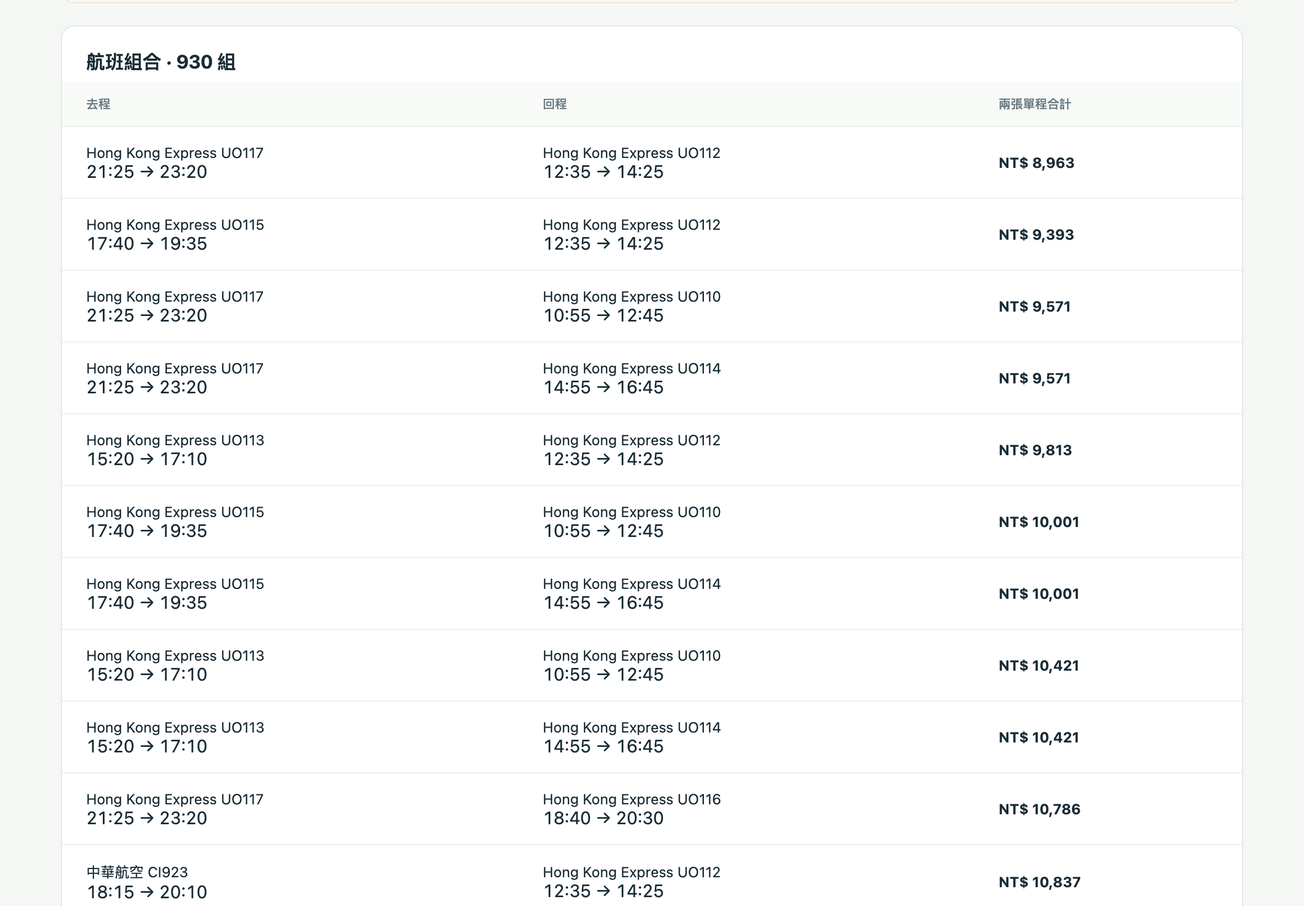
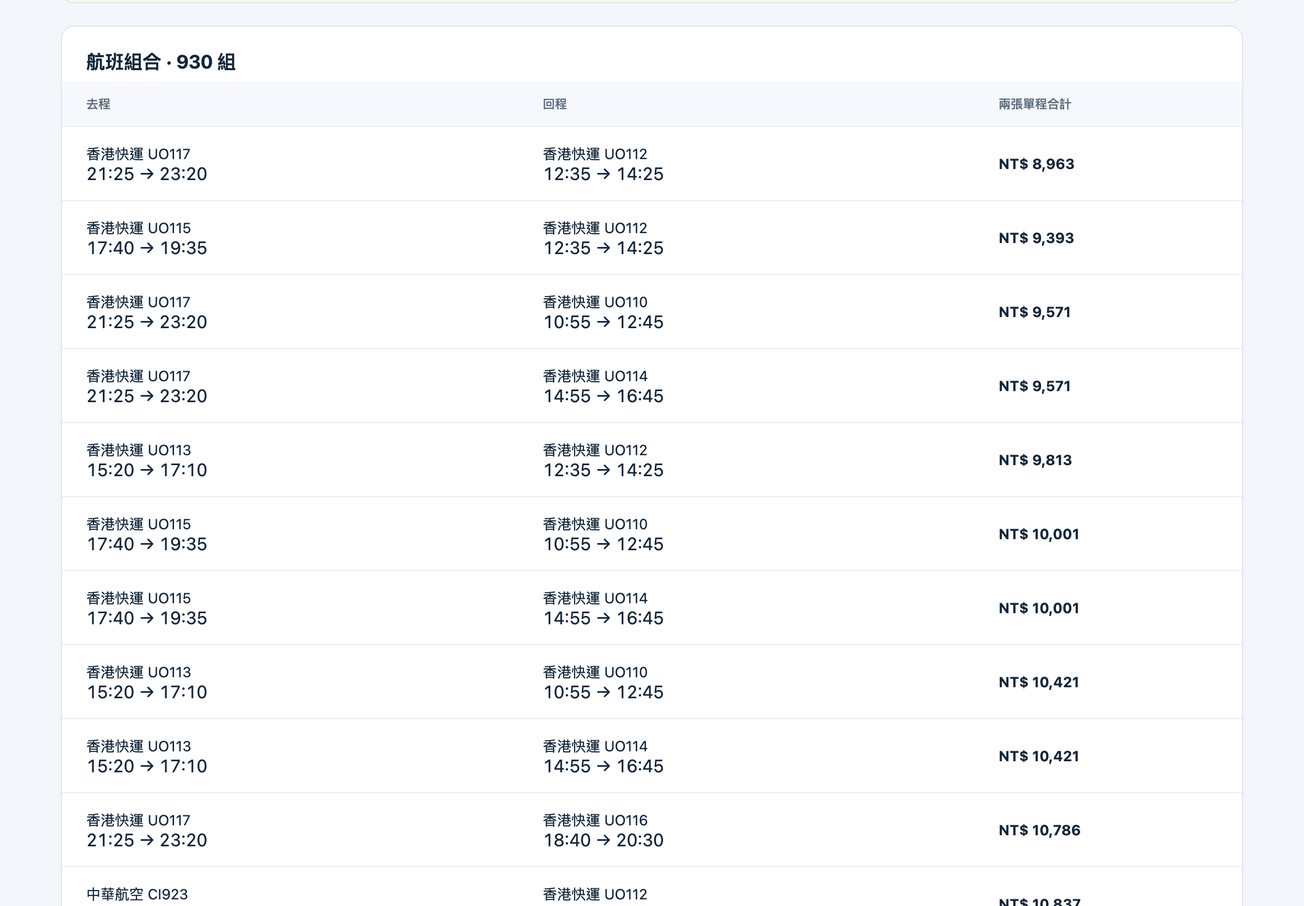
Redesign the landing page to feel like a travel service
- Site-wide palette: booking blue + sunset amber (tokens in :root), pill tabs
- Full-width sky hero with an inline SVG flight route and a boarding-pass
  card for the next break (days off, countdown, cheapest fare)
- Break picker as calendar chips with a countdown
- Leave options double as a filter: pick one to see every destination's
  fare for exactly those dates
- Ranking table -> destination cards (per-destination gradient cover, large
  price, legs, CTA) with skeleton cards while fares are still loading
- Accessibility: skip link, focus-visible rings, reduced-motion, 44px targets
- No inline styles or external assets, so the strict CSP is unchanged

diff --git a/fare_watch/web/style.css b/fare_watch/web/style.css
@@ -1,14 +1,86 @@
-:root{--ink:#192c36;--muted:#677981;--line:#e2e8e6;--teal:#16665b;--bg:#f5f7f4;--soft:#edf5ee}*{box-sizing:border-box}body{margin:0;color:var(--ink);background:var(--bg);font:15px -apple-system,BlinkMacSystemFont,"Noto Sans TC",sans-serif}button,input,select{font:inherit}button,a,input,select{outline-offset:4px}button{cursor:pointer}button:disabled{opacity:.55;cursor:wait}[hidden]{display:none!important}.top{height:82px;padding:0 6%;display:flex;align-items:center;justify-content:space-between;border-bottom:1px solid var(--line);background:#fff}.brand{color:var(--ink);font-size:21px;text-decoration:none;font-weight:700;display:flex;align-items:center;gap:10px}.brand-icon{background:var(--teal);color:white;border-radius:9px;padding:3px 10px;font-size:25px}.brand small{font-size:10px;letter-spacing:2px;color:var(--muted);margin-left:12px}.local{font-size:12px;color:var(--muted)}.local i{display:inline-block;width:7px;height:7px;background:#5c9771;border-radius:50%;margin-right:7px}main{max-width:1130px;padding:44px 30px 24px;margin:auto}.eyebrow{font-size:12px;letter-spacing:2px;color:var(--teal);font-weight:600}.intro h1{font-size:36px;letter-spacing:-1px;margin:16px 0}.intro h1 span{font-weight:400}.intro>p:last-child{color:var(--muted);margin-bottom:36px}.tabs{display:flex;gap:26px;border-bottom:1px solid var(--line);margin-bottom:22px}.tab{background:transparent;color:var(--muted);border:0;padding:13px 2px;border-bottom:3px solid transparent}.tab.active{color:var(--teal);font-weight:650;border-color:var(--teal)}.search-card{background:white;border:1px solid var(--line);border-radius:15px;padding:28px;box-shadow:0 4px 16px #233c2c03}.route-row{display:grid;grid-template-columns:1fr 44px 1fr;gap:18px;align-items:end}.fields{display:flex;gap:20px;margin-top:22px}.fields label{flex:1}label{display:block;font-size:13px;color:#51666e}label small{font-size:11px;color:var(--muted);font-weight:400;margin-left:4px}input,select{display:block;width:100%;padding:13px 14px;border:1px solid #cfd9d5;border-radius:7px;background:#fff;color:var(--ink);margin-top:8px;min-height:47px}input:focus,select:focus{border-color:var(--teal)}.swap{height:44px;background:var(--bg);border:1px solid var(--line);border-radius:50%;color:var(--teal);font-size:22px;margin-bottom:2px}.form-bottom{display:flex;justify-content:space-between;align-items:center;gap:20px;margin-top:26px}.check{display:flex;align-items:center;gap:8px;font-size:12px}.check input{margin:0;min-height:0;width:15px;height:15px;accent-color:var(--teal)}.form-note{font-size:12px;margin:10px 0 0;color:var(--muted)}.primary{background:var(--teal);color:#fff;border:0;border-radius:8px;padding:14px 24px;min-width:155px;font-weight:600}.primary span{margin-left:16px}.primary:hover{background:#104e46}.empty{text-align:center;padding:48px 10px 35px}.empty-symbol{font-size:29px;color:#7fa093;width:58px;height:58px;line-height:58px;border:1px dashed #bbcec0;border-radius:50%;margin:0 auto 18px}.empty h2{font-size:19px;font-weight:500;margin:10px}.empty p{color:var(--muted);font-size:13px}.empty-notes{display:flex;justify-content:center;gap:28px;margin-top:26px;font-size:12px;color:#829089}.empty-notes span:before{content:'✓';margin-right:7px;color:var(--teal)}footer{text-align:center;color:#7d8c88;font-size:11px;line-height:1.9;padding:24px 0;border-top:1px solid var(--line);margin-top:20px}.progress-card{border:1px solid #c4dacd;background:#edf6ef;padding:23px;border-radius:12px;margin-top:22px}.progress-top{display:flex;align-items:center;gap:12px}.progress-top span:last-child{margin-left:auto}progress{width:100%;height:7px;accent-color:var(--teal);margin-top:18px}.progress-card p,.progress-card small{font-size:12px;color:var(--muted);word-break:break-word}.spinner{width:16px;height:16px;border:2px solid #b8d1bd;border-top-color:var(--teal);border-radius:50%;animation:spin 1s linear infinite}@keyframes spin{to{transform:rotate(360deg)}}@media(prefers-reduced-motion:reduce){.spinner{animation:none}}#message,#holiday-message{padding:14px 18px;margin-top:18px;background:#fff2e7;color:#9a5122;border-radius:8px;line-height:1.6}.result-head{display:flex;align-items:center;justify-content:space-between;margin:34px 0 16px;gap:15px}.result-head h2{font-size:23px;margin:0}.result-head p{color:var(--muted);font-size:12px}.tag{font-size:11px;border-radius:20px;padding:6px 10px;background:var(--soft);color:var(--teal)}.panel{background:#fff;border:1px solid var(--line);border-radius:12px;margin:20px 0;overflow:hidden}.panel h3{margin:0;padding:20px 22px 6px;font-size:17px}.panel .meta{padding:0 22px 15px;font-size:12px;color:var(--muted);line-height:1.7}.panel a{color:var(--teal)}.table-wrap{overflow-x:auto}table{width:100%;border-collapse:collapse;font-size:13px;white-space:nowrap}th{text-align:left;font-size:11px;font-weight:500;color:var(--muted);background:#f8faf8;padding:12px 22px}td{padding:15px 22px;border-top:1px solid #edf0ec}td small{display:block;color:var(--muted);font-size:11px;margin-top:5px}td.price{font-size:16px;font-weight:650;font-variant-numeric:tabular-nums;color:var(--teal)}.time{font-size:16px;font-variant-numeric:tabular-nums}.arrow{color:#9aa7a1;padding:0 7px}.subtle{color:var(--muted);font-size:12px}.result-note{font-size:12px;color:var(--muted);line-height:1.7}.link-button{border:1px solid #d0e0d5;color:var(--teal);border-radius:6px;padding:7px 12px;background:#f8fbf7}.metrics{display:grid;grid-template-columns:repeat(3,1fr);gap:15px;margin:22px 0}.metric{padding:21px;border:1px solid var(--line);border-radius:10px;background:#fff}.metric small{color:var(--muted)}.metric strong{display:block;font-size:25px;margin-top:9px}.history-select{max-width:100%;margin:20px 0}.chart{padding:16px 25px}.chart svg{width:100%;max-height:230px}.chart text{font:12px sans-serif;fill:#6a7f75}.chart path,.chart line{stroke:#16665b;stroke-width:2;fill:none}.chart circle{fill:#16665b}.up{color:#b45b42}.down{color:#267462}details{padding:17px 22px;border-top:1px solid var(--line)}summary{cursor:pointer;font-size:13px;color:var(--teal)}details .table-wrap{margin-top:15px}.status-note{padding:14px 22px;background:#fff7e9;color:#8b6231;font-size:12px;line-height:1.8}@media(max-width:650px){.top{height:67px;padding:0 20px}.brand small,.local{display:none}main{padding:25px 16px}.intro h1{font-size:29px;line-height:1.4}.intro h1 span{display:block}.tabs{gap:22px}.search-card{padding:20px}.route-row{gap:10px;grid-template-columns:1fr 34px 1fr}.swap{height:34px;font-size:18px}.fields{flex-wrap:wrap;gap:13px}.fields label{flex-basis:40%}.form-bottom{align-items:stretch;flex-direction:column}.primary{width:100%}.empty-notes{gap:10px;flex-wrap:wrap}.metrics{gap:8px}.metric{padding:14px 10px}.metric strong{font-size:19px}th,td{padding:12px 14px}.result-head{align-items:flex-start}}
+:root{--ink:#12263a;--muted:#5b6b7d;--line:#dde5ee;--brand:#0a5fb4;--brand-dark:#084a8c;--accent:#f59e0b;--price:#c2410c;--bg:#f3f7fb;--soft:#e6f0fb;--radius:16px;--shadow:0 10px 30px rgba(15,52,96,.10)}*{box-sizing:border-box}body{margin:0;color:var(--ink);background:var(--bg);font:15px -apple-system,BlinkMacSystemFont,"Noto Sans TC",sans-serif}button,input,select{font:inherit}button,a,input,select{outline-offset:4px}button{cursor:pointer}button:disabled{opacity:.55;cursor:wait}[hidden]{display:none!important}.top{height:82px;padding:0 6%;display:flex;align-items:center;justify-content:space-between;border-bottom:1px solid var(--line);background:#fff}.brand{color:var(--ink);font-size:21px;text-decoration:none;font-weight:700;display:flex;align-items:center;gap:10px}.brand-icon{background:var(--brand);color:#fff;border-radius:10px;width:38px;height:38px;display:grid;place-items:center}.brand small{font-size:10px;letter-spacing:2px;color:var(--muted);margin-left:12px}.local{font-size:12px;color:var(--muted)}.local i{display:inline-block;width:7px;height:7px;background:#2f9e6b;border-radius:50%;margin-right:7px}main{max-width:1130px;padding:0 30px 24px;margin:auto}.tabs{display:flex;gap:6px;flex-wrap:wrap;width:fit-content;max-width:100%;margin:-29px 0 28px;padding:6px;background:#fff;border-radius:999px;box-shadow:var(--shadow);position:relative}.tab{background:transparent;color:var(--muted);border:0;padding:12px 20px;min-height:46px;border-radius:999px;font-weight:600;transition:background .2s,color .2s}.tab:hover{color:var(--brand)}.tab.active{color:#fff;background:var(--brand)}.search-card{background:white;border:1px solid var(--line);border-radius:15px;padding:28px;box-shadow:0 4px 16px #233c2c03}.route-row{display:grid;grid-template-columns:1fr 44px 1fr;gap:18px;align-items:end}.fields{display:flex;gap:20px;margin-top:22px}.fields label{flex:1}label{display:block;font-size:13px;color:#4a5d70}label small{font-size:11px;color:var(--muted);font-weight:400;margin-left:4px}input,select{display:block;width:100%;padding:13px 14px;border:1px solid #cdd8e5;border-radius:7px;background:#fff;color:var(--ink);margin-top:8px;min-height:47px}input:focus,select:focus{border-color:var(--brand)}.swap{height:44px;background:var(--bg);border:1px solid var(--line);border-radius:50%;color:var(--brand);font-size:22px;margin-bottom:2px}.form-bottom{display:flex;justify-content:space-between;align-items:center;gap:20px;margin-top:26px}.check{display:flex;align-items:center;gap:8px;font-size:12px}.check input{margin:0;min-height:0;width:15px;height:15px;accent-color:var(--brand)}.form-note{font-size:12px;margin:10px 0 0;color:var(--muted)}.primary{background:var(--brand);color:#fff;border:0;border-radius:8px;padding:14px 24px;min-width:155px;font-weight:600}.primary span{margin-left:16px}.primary:hover{background:var(--brand-dark)}.empty{text-align:center;padding:48px 10px 35px}.empty-symbol{font-size:29px;color:#7fa093;width:58px;height:58px;line-height:58px;border:1px dashed #bbcec0;border-radius:50%;margin:0 auto 18px}.empty h2{font-size:19px;font-weight:500;margin:10px}.empty p{color:var(--muted);font-size:13px}.empty-notes{display:flex;justify-content:center;gap:28px;margin-top:26px;font-size:12px;color:#829089}.empty-notes span:before{content:'✓';margin-right:7px;color:var(--brand)}footer{text-align:center;color:#7d8c88;font-size:11px;line-height:1.9;padding:24px 0;border-top:1px solid var(--line);margin-top:20px}.progress-card{border:1px solid #c5dbf3;background:#eaf3fd;padding:23px;border-radius:12px;margin-top:22px}.progress-top{display:flex;align-items:center;gap:12px}.progress-top span:last-child{margin-left:auto}progress{width:100%;height:7px;accent-color:var(--brand);margin-top:18px}.progress-card p,.progress-card small{font-size:12px;color:var(--muted);word-break:break-word}.spinner{width:16px;height:16px;border:2px solid #b9d3f0;border-top-color:var(--brand);border-radius:50%;animation:spin 1s linear infinite}@keyframes spin{to{transform:rotate(360deg)}}@media(prefers-reduced-motion:reduce){.spinner{animation:none}}#message,#holiday-message{padding:14px 18px;margin-top:18px;background:#fff2e7;color:#9a5122;border-radius:8px;line-height:1.6}.result-head{display:flex;align-items:center;justify-content:space-between;margin:34px 0 16px;gap:15px}.result-head h2{font-size:23px;margin:0}.result-head p{color:var(--muted);font-size:12px}.tag{font-size:11px;border-radius:20px;padding:6px 10px;background:var(--soft);color:var(--brand)}.panel{background:#fff;border:1px solid var(--line);border-radius:12px;margin:20px 0;overflow:hidden}.panel h3{margin:0;padding:20px 22px 6px;font-size:17px}.panel .meta{padding:0 22px 15px;font-size:12px;color:var(--muted);line-height:1.7}.panel a{color:var(--brand)}.table-wrap{overflow-x:auto}table{width:100%;border-collapse:collapse;font-size:13px;white-space:nowrap}th{text-align:left;font-size:11px;font-weight:500;color:var(--muted);background:#f5f8fc;padding:12px 22px}td{padding:15px 22px;border-top:1px solid #e9eef5}td small{display:block;color:var(--muted);font-size:11px;margin-top:5px}td.price{font-size:16px;font-weight:650;font-variant-numeric:tabular-nums;color:var(--brand)}.time{font-size:16px;font-variant-numeric:tabular-nums}.arrow{color:#9aa7a1;padding:0 7px}.subtle{color:var(--muted);font-size:12px}.result-note{font-size:12px;color:var(--muted);line-height:1.7}.link-button{border:1px solid #c9dcf1;color:var(--brand);border-radius:6px;padding:7px 12px;background:#f5f9fe}.metrics{display:grid;grid-template-columns:repeat(3,1fr);gap:15px;margin:22px 0}.metric{padding:21px;border:1px solid var(--line);border-radius:10px;background:#fff}.metric small{color:var(--muted)}.metric strong{display:block;font-size:25px;margin-top:9px}.history-select{max-width:100%;margin:20px 0}.chart{padding:16px 25px}.chart svg{width:100%;max-height:230px}.chart text{font:12px sans-serif;fill:#6a7f75}.chart path,.chart line{stroke:#16665b;stroke-width:2;fill:none}.chart circle{fill:#16665b}.up{color:#b45b42}.down{color:#267462}details{padding:17px 22px;border-top:1px solid var(--line)}summary{cursor:pointer;font-size:13px;color:var(--brand)}details .table-wrap{margin-top:15px}.status-note{padding:14px 22px;background:#fff7e9;color:#8b6231;font-size:12px;line-height:1.8}@media(max-width:650px){.top{height:67px;padding:0 20px}.brand small,.local{display:none}main{padding:25px 16px}.intro h1{font-size:29px;line-height:1.4}.intro h1 span{display:block}.tabs{gap:22px}.search-card{padding:20px}.route-row{gap:10px;grid-template-columns:1fr 34px 1fr}.swap{height:34px;font-size:18px}.fields{flex-wrap:wrap;gap:13px}.fields label{flex-basis:40%}.form-bottom{align-items:stretch;flex-direction:column}.primary{width:100%}.empty-notes{gap:10px;flex-wrap:wrap}.metrics{gap:8px}.metric{padding:14px 10px}.metric strong{font-size:19px}th,td{padding:12px 14px}.result-head{align-items:flex-start}}
 
-.airport-field{position:relative}.airport-options{position:absolute;top:100%;left:0;right:0;z-index:20;background:white;border:1px solid #cfd9d5;border-radius:8px;box-shadow:0 10px 28px #192c3625;max-height:300px;overflow:auto}.airport-options [role=option]{padding:13px;cursor:pointer;line-height:1.6}.airport-options [role=option]:hover,.airport-options .selected{background:#edf5ee}.airport-options strong{color:#16665b;margin-right:6px}.airport-options p{padding:12px}.watch-row{padding:16px 22px;border-top:1px solid #e2e8e6;display:flex;justify-content:space-between;gap:12px;align-items:center}.watch-row p{font-size:12px;color:#677981;margin:8px 0 0}.watch-actions{display:flex;gap:8px;flex-wrap:wrap}@media(max-width:650px){.watch-row{align-items:flex-start;flex-direction:column}.airport-options{min-width:220px}.route-row label:last-child .airport-options{left:auto}}
+.airport-field{position:relative}.airport-options{position:absolute;top:100%;left:0;right:0;z-index:20;background:white;border:1px solid #cdd8e5;border-radius:8px;box-shadow:0 10px 28px #192c3625;max-height:300px;overflow:auto}.airport-options [role=option]{padding:13px;cursor:pointer;line-height:1.6}.airport-options [role=option]:hover,.airport-options .selected{background:#edf5ee}.airport-options strong{color:#16665b;margin-right:6px}.airport-options p{padding:12px}.watch-row{padding:16px 22px;border-top:1px solid #e2e8e6;display:flex;justify-content:space-between;gap:12px;align-items:center}.watch-row p{font-size:12px;color:#677981;margin:8px 0 0}.watch-actions{display:flex;gap:8px;flex-wrap:wrap}@media(max-width:650px){.watch-row{align-items:flex-start;flex-direction:column}.airport-options{min-width:220px}.route-row label:last-child .airport-options{left:auto}}
 
 .combination-picker>label{margin:16px 22px}.selection-grid{display:grid;grid-template-columns:repeat(2,minmax(0,1fr));gap:22px;padding:0 22px 24px}.selection-grid>div{min-width:0}.selection-grid select{width:100%;text-overflow:ellipsis}.selection-meta{font-size:12px;color:var(--muted);line-height:1.7}.combination-picker .status-note{margin:0}.selection-grid input[aria-invalid=true]{border-color:#b45b42}@media(max-width:650px){.selection-grid{grid-template-columns:1fr}.combination-picker>label{margin:16px}.selection-grid{padding:0 16px 20px}}
 [hidden]{display:none!important}
-.break-list{display:flex;gap:12px;overflow-x:auto;padding:4px 2px 12px}
-.break{flex:0 0 auto;display:flex;flex-direction:column;gap:4px;min-width:168px;padding:14px 16px;text-align:left;font:inherit;color:var(--ink);background:#fff;border:1px solid var(--line);border-radius:14px;cursor:pointer}
-.break span{color:var(--muted);font-size:.92rem}.break small{color:var(--teal);font-weight:600}
-.break.active{border-color:var(--teal);background:var(--soft);box-shadow:0 0 0 1px var(--teal) inset}
-.option-list{list-style:none;margin:0;padding:0 22px 20px;display:grid;grid-template-columns:repeat(auto-fit,minmax(230px,1fr));gap:10px}
-.option-list li{display:flex;flex-wrap:wrap;align-items:center;gap:6px 10px;padding:10px 12px;border:1px solid var(--line);border-radius:10px}
-.option-list li strong{flex:1 0 100%}.option-list li span{color:var(--muted);font-size:.9rem}
-.holiday-actions{display:flex;justify-content:flex-end;margin:12px 0}
+
+/* ---- 旅遊感首頁：hero、登機證、連假、請假走法、目的地卡片 ---- */
+.skip{position:absolute;left:-999px;top:8px;background:#fff;color:var(--brand);padding:10px 14px;border-radius:8px;z-index:10}.skip:focus{left:12px}
+:focus-visible{outline:3px solid var(--accent);outline-offset:3px}
+.hero{position:relative;overflow:hidden;color:#fff;background:linear-gradient(155deg,#08306b 0%,#0a5fb4 42%,#3aa0e6 74%,#f8c98a 100%)}
+.hero-art{position:absolute;inset:0;width:100%;height:100%;pointer-events:none}
+.hero-inner{position:relative;max-width:1130px;margin:auto;padding:56px 30px 84px;display:flex;align-items:center;justify-content:space-between;gap:40px}
+.intro{max-width:600px}
+.eyebrow{display:inline-block;margin:0;font-size:12px;letter-spacing:2px;font-weight:700;color:#08306b;background:#ffd089;padding:6px 12px;border-radius:999px}
+.intro h1{font-size:42px;line-height:1.2;letter-spacing:-1px;margin:18px 0 14px;text-shadow:0 2px 14px rgba(8,48,107,.35)}
+.intro h1 span{display:block;font-weight:500}
+.intro>p:last-child{margin:0;text-wrap:pretty;font-size:16px;line-height:1.7;color:#eaf3ff;text-shadow:0 1px 8px rgba(8,48,107,.45)}
+.ticket{position:relative;flex:0 0 340px;background:#fff;color:var(--ink);border-radius:18px;padding:22px 24px 20px;box-shadow:0 18px 40px rgba(8,48,107,.35)}
+.ticket-label{margin:0;font-size:11px;letter-spacing:2px;font-weight:700;color:var(--brand)}
+.ticket h2{margin:8px 0 4px;font-size:19px;line-height:1.35}
+.ticket-dates{margin:0 0 18px;color:var(--muted);font-size:14px}
+.ticket-row{display:grid;grid-template-columns:auto auto 1fr;gap:18px;padding-top:18px;border-top:2px dashed var(--line)}
+.ticket-row small{display:block;font-size:11px;color:var(--muted);margin-bottom:4px}
+.ticket-row strong{font-size:18px;font-variant-numeric:tabular-nums}
+.ticket-row .ticket-price{color:var(--price)}
+.section-title{font-size:20px;margin:34px 0 14px;letter-spacing:-.3px}
+.section-note{margin:-6px 0 14px;color:var(--muted);font-size:13px}
+.result-head .section-title{margin:0}
+.break-list{display:flex;gap:12px;overflow-x:auto;padding:4px 4px 14px;scroll-snap-type:x proximity}
+.break{flex:0 0 auto;display:flex;align-items:center;gap:14px;min-width:250px;min-height:84px;padding:12px 16px 12px 12px;text-align:left;font:inherit;color:var(--ink);background:#fff;border:1px solid var(--line);border-radius:var(--radius);scroll-snap-align:start;transition:border-color .2s,box-shadow .2s,transform .2s}
+.break:hover{border-color:var(--brand);box-shadow:var(--shadow)}
+.break-date{flex:0 0 56px;height:60px;border-radius:12px;background:var(--soft);color:var(--brand);display:flex;flex-direction:column;align-items:center;justify-content:center;font-size:22px;font-weight:700;line-height:1.1;font-variant-numeric:tabular-nums}
+.break-date b{font-size:11px;font-weight:600}
+.break-text{display:flex;flex-direction:column;gap:3px;min-width:0}
+.break-text strong{font-size:15px}.break-text span{color:var(--muted);font-size:13px}.break-text small{color:var(--brand);font-weight:600;font-size:12px}
+.break.active{border-color:var(--brand);box-shadow:0 0 0 2px var(--brand) inset,var(--shadow)}
+.break.active .break-date{background:var(--brand);color:#fff}
+#break-options{background:transparent;border:0;margin:0;overflow:visible}
+.option-list{display:grid;grid-template-columns:repeat(auto-fit,minmax(158px,1fr));gap:10px}
+.option{display:flex;flex-wrap:wrap;align-items:center;gap:6px 10px;min-height:72px;padding:12px 14px;text-align:left;font:inherit;color:var(--ink);background:#fff;border:1px solid var(--line);border-radius:14px;transition:border-color .2s,box-shadow .2s}
+.option strong{flex:1 0 100%;font-size:14px}.option>span{color:var(--muted);font-size:13px}
+.option:hover{border-color:var(--brand)}
+.option.active{border-color:var(--brand);background:var(--soft);box-shadow:0 0 0 2px var(--brand) inset}
+.tag-ok{background:#e4f6ec;color:#17693f}
+.deal-grid{display:grid;grid-template-columns:repeat(auto-fill,minmax(250px,1fr));gap:18px}
+.deal{display:flex;flex-direction:column;background:#fff;border:1px solid var(--line);border-radius:var(--radius);overflow:hidden;box-shadow:0 2px 8px rgba(15,52,96,.05);transition:transform .2s ease-out,box-shadow .2s ease-out}
+.deal:hover{transform:translateY(-3px);box-shadow:var(--shadow)}
+.deal-cover{position:relative;height:128px;padding:16px 18px;display:flex;flex-direction:column;justify-content:flex-end;color:#fff;overflow:hidden;background:linear-gradient(135deg,#0a5fb4,#3aa0e6)}
+.deal-cover:after{content:"";position:absolute;inset:0;background:radial-gradient(circle at 85% 18%,rgba(255,255,255,.35) 0 34px,transparent 35px),linear-gradient(to top,rgba(0,0,0,.38),transparent 62%)}
+.deal-cover h3,.deal-cover p,.deal-rank{position:relative;z-index:1}
+.deal-cover h3{margin:0;font-size:24px;letter-spacing:.5px}
+.deal-cover p{margin:3px 0 0;font-size:12px;opacity:.95}
+.deal-code{position:absolute;right:-6px;bottom:-22px;font-size:84px;font-weight:800;letter-spacing:-3px;line-height:1;color:rgba(255,255,255,.2)}
+.deal-rank{position:absolute;top:12px;left:12px;background:var(--accent);color:#3b2300;font-size:12px;font-weight:700;padding:5px 10px;border-radius:999px}
+.dest-OKA{background:linear-gradient(135deg,#0891b2,#34d399)}
+.dest-KIX{background:linear-gradient(135deg,#be123c,#fb923c)}
+.dest-NRT{background:linear-gradient(135deg,#4338ca,#ec4899)}
+.dest-FUK{background:linear-gradient(135deg,#b45309,#fbbf24)}
+.dest-ICN{background:linear-gradient(135deg,#6d28d9,#38bdf8)}
+.dest-PUS{background:linear-gradient(135deg,#075985,#2dd4bf)}
+.dest-HKG{background:linear-gradient(135deg,#9f1239,#f59e0b)}
+.dest-BKK{background:linear-gradient(135deg,#a16207,#f472b6)}
+.deal-body{display:flex;flex-direction:column;gap:10px;padding:16px 18px 18px;flex:1}
+.deal-body p{margin:0}
+.deal-price small{display:block;font-size:11px;color:var(--muted);margin-bottom:2px}
+.deal-price strong{font-size:26px;color:var(--price);font-variant-numeric:tabular-nums;letter-spacing:-.5px}
+.deal-price span{margin-left:4px;font-size:12px;color:var(--muted)}
+.deal-dates{display:flex;flex-wrap:wrap;align-items:center;gap:6px 8px;font-size:13px}.tag{white-space:nowrap}
+.deal-leg{display:grid;grid-template-columns:22px 1fr auto;align-items:center;gap:8px;font-size:12px;padding-top:9px;border-top:1px solid var(--line)}
+.deal-leg-label{width:22px;height:22px;border-radius:50%;background:var(--soft);color:var(--brand);font-size:11px;font-weight:700;display:grid;place-items:center}
+.deal-leg-airline{color:var(--muted);overflow:hidden;text-overflow:ellipsis;white-space:nowrap}
+.deal-leg .time{font-size:14px}
+.deal-cta{margin-top:auto;width:100%;min-height:46px;border-radius:12px}
+.deal-cta span{margin-left:6px}
+.deal-wait{color:var(--muted);font-size:13px;line-height:1.7}
+.loading .deal-cover,.empty-deal .deal-cover{filter:saturate(.45) opacity(.75)}
+.skeleton{height:14px;width:60%;border-radius:7px;background:linear-gradient(90deg,#e9eff6 25%,#f6f9fc 50%,#e9eff6 75%);background-size:200% 100%;animation:shimmer 1.4s linear infinite}
+.skeleton.wide{height:26px;width:75%}
+@keyframes shimmer{to{background-position:-200% 0}}
+.empty-note{padding-top:18px!important}
+.holiday-actions{display:flex;justify-content:flex-end;margin:18px 0 8px}
+#holiday-source{margin-top:18px;line-height:1.8}
+#holiday-source a{color:var(--brand)}
+@media(max-width:860px){.hero-inner{flex-direction:column;align-items:stretch;padding:40px 20px 72px}.ticket{flex:none}.intro h1{font-size:32px}main{padding:0 18px 24px}.tabs{border-radius:20px}.hero-route{display:none}}
+@media(prefers-reduced-motion:reduce){.skeleton{animation:none}.deal,.break,.option,.tab{transition:none}.deal:hover{transform:none}}

diff --git a/fare_watch/web/holiday.js b/fare_watch/web/holiday.js
@@ -1,68 +1,89 @@
 // 首頁「連假便宜機票」：連假來自人事行政總處辦公日曆表，價格來自與其他分頁相同的單程查價。
 // 依賴 app.js 的 $、esc、money、stamp、api、post、table、airlineName、setMode。
+// CSP 不允許 inline style，所以每個目的地的封面顏色都是 style.css 裡的 .dest-XXX class。
 const HOLIDAY_ORIGIN='TPE';
-const placeNames={OKA:'沖繩',KIX:'大阪',NRT:'東京成田',FUK:'福岡',ICN:'首爾',PUS:'釜山',HKG:'香港',BKK:'曼谷'};
+const places={OKA:['沖繩','日本 · 海島度假'],KIX:['大阪','日本 · 關西美食與古都'],NRT:['東京','日本 · 成田機場'],FUK:['福岡','日本 · 九州玄關'],ICN:['首爾','韓國 · 仁川機場'],PUS:['釜山','韓國 · 港都海景'],HKG:['香港','香港 · 週末快閃'],BKK:['曼谷','泰國 · 夜市與按摩']};
+const placeName=code=>(places[code]||[code])[0];
 const weekdays='日一二三四五六';
 const shortDate=v=>{const d=new Date(v+'T12:00:00');return (d.getMonth()+1)+'/'+d.getDate()+'('+weekdays[d.getDay()]+')';};
 const leaveText=n=>n?'請 '+n+' 天假':'不用請假';
-let holidayBreaks=[],holidayPick=null;
+const optionKey=o=>o.depart+'|'+o.return;
+let holidayBreaks=[],holidayPick=null,holidayOption='',holidayReport=null,holidayRunning=false,holidayToday='';
 
 function holidayMessage(s=''){$('holiday-message').textContent=s;$('holiday-message').hidden=!s;}
+function daysUntil(v){return Math.round((Date.parse(v+'T12:00:00')-Date.parse(holidayToday+'T12:00:00'))/86400000);}
 
 function renderBreaks(){
-$('break-list').innerHTML=holidayBreaks.map((b,i)=>'<button type="button" class="break'+(b===holidayPick?' active':'')+'" data-break="'+i+'" aria-pressed="'+(b===holidayPick)+'"><strong>'+esc(b.name)+'</strong><span>'+shortDate(b.start)+' – '+shortDate(b.end)+'</span><small>連休 '+b.days+' 天</small></button>').join('');
+$('break-list').innerHTML=holidayBreaks.map((b,i)=>{const d=new Date(b.start+'T12:00:00');return '<button type="button" class="break'+(b===holidayPick?' active':'')+'" data-break="'+i+'" aria-pressed="'+(b===holidayPick)+'"><span class="break-date" aria-hidden="true"><b>'+(d.getMonth()+1)+'月</b>'+d.getDate()+'</span><span class="break-text"><strong>'+esc(b.name)+'</strong><span>'+shortDate(b.start)+' – '+shortDate(b.end)+'</span><small>連休 '+b.days+' 天 · 還有 '+daysUntil(b.start)+' 天</small></span></button>';}).join('');
 $('break-list').querySelectorAll('[data-break]').forEach(el=>el.onclick=()=>pickBreak(holidayBreaks[Number(el.dataset.break)],false));
 }
 
+// 請假走法同時是篩選器：選了某個走法，卡片就改列每個地點在那幾天的價格
 function renderOptions(b){
-$('break-options').innerHTML='<h3>'+esc(b.name)+'怎麼排</h3><p class="meta">連假前後一天都是上班日；多請一天假，機票常常便宜不少。</p><ul class="option-list">'+b.options.map(o=>'<li><strong>'+shortDate(o.depart)+' 去 – '+shortDate(o.return)+' 回</strong><span>共 '+o.total_days+' 天</span><span class="tag">'+leaveText(o.leave_days)+'</span></li>').join('')+'</ul>';
+const choice=(key,title,sub,tag)=>'<button type="button" class="option'+(holidayOption===key?' active':'')+'" data-option="'+esc(key)+'" aria-pressed="'+(holidayOption===key)+'"><strong>'+title+'</strong><span>'+sub+'</span><span class="tag">'+tag+'</span></button>';
+$('break-options').innerHTML='<h2 class="section-title">怎麼請假</h2><p class="section-note">連假前後一天都是上班日；多請一天假，機票常常便宜不少。</p><div class="option-list" role="group" aria-label="請假走法">'+choice('','每個地點最便宜的走法','不限請假天數','全部')+b.options.map(o=>choice(optionKey(o),shortDate(o.depart)+' 去 – '+shortDate(o.return)+' 回','共 '+o.total_days+' 天',leaveText(o.leave_days))).join('')+'</div>';
+$('break-options').querySelectorAll('[data-option]').forEach(el=>el.onclick=()=>{holidayOption=el.dataset.option;renderOptions(b);renderDeals();});
 }
 
-function flightCell(f){return esc(airlineName(f.airline))+'<br><span class="time">'+esc(f.depart_time)+' → '+esc(f.arrive_time)+'</span>';}
+function legRow(label,f){return '<div class="deal-leg"><span class="deal-leg-label">'+label+'</span><span class="deal-leg-airline">'+esc(airlineName(f.airline))+'</span><span class="time">'+esc(f.depart_time)+' → '+esc(f.arrive_time)+'</span></div>';}
 
-function renderDeals(report,running){
-const box=$('deal-results');
-if(!report){box.innerHTML=running?'':'<section class="panel"><p class="meta">這個連假還沒查過票價。</p></section>';return;}
-const deals=report.deals||[],best=new Map();
-// 排行只留每個地點最便宜的走法；其餘走法收在下方明細，避免同一個地點洗版
-for(const d of deals)if(!best.has(d.destination))best.set(d.destination,d);
-const row=d=>['<strong>'+esc(placeNames[d.destination]||d.destination)+'</strong> <small>'+esc(d.destination)+'</small>',shortDate(d.depart)+' – '+shortDate(d.return)+'<br><small>共 '+d.total_days+' 天 · '+leaveText(d.leave_days)+'</small>','<strong class="price">'+money(d.price)+'</strong>',flightCell(d.outbound),flightCell(d.inbound),'<button type="button" class="link-button" data-deal="'+deals.indexOf(d)+'">看全部航班</button>'];
-const head=['地點','日期','每人兩張單程合計','去程','回程',''];
-let html='<section class="panel"><div class="result-head"><h3>便宜地點排行</h3><span class="tag">'+stamp(report.generated_at)+'</span></div>';
-html+=best.size?table(head,[...best.values()].map(row)):'<p class="meta">'+(running?'查價中，第一個地點查完就會出現在這裡…':'這次沒有取得可排名的報價，不代表沒有航班。')+'</p>';
+function dealCard(code,d,rank,running){
+const [name,tagline]=places[code]||[code,''];
+const cover='<div class="deal-cover dest-'+esc(code)+'">'+(rank===0&&d?'<span class="deal-rank">最便宜</span>':'')+'<span class="deal-code" aria-hidden="true">'+esc(code)+'</span><h3>'+esc(name)+'</h3><p>'+esc(tagline)+'</p></div>';
+if(!d)return '<article class="deal'+(running?' loading':' empty-deal')+'">'+cover+'<div class="deal-body">'+(running?'<div class="skeleton wide"></div><div class="skeleton"></div><div class="skeleton"></div><p class="deal-wait">查價中…</p>':'<p class="deal-wait">這個走法沒有取得報價，不代表沒有航班。</p>')+'</div></article>';
+return '<article class="deal">'+cover+'<div class="deal-body"><p class="deal-price"><small>每人 · 兩張單程合計</small><strong>'+money(d.price)+'</strong><span>起</span></p><p class="deal-dates">'+shortDate(d.depart)+' – '+shortDate(d.return)+' · 共 '+d.total_days+' 天 <span class="tag'+(d.leave_days?'':' tag-ok')+'">'+leaveText(d.leave_days)+'</span></p>'+legRow('去',d.outbound)+legRow('回',d.inbound)+'<button type="button" class="primary deal-cta" data-deal="'+esc(code+'|'+optionKey(d))+'">看全部航班 <span aria-hidden="true">→</span></button></div></article>';
+}
+
+function renderDeals(){
+const box=$('deal-results'),report=holidayReport,running=holidayRunning;
+if(!report){box.innerHTML=running?'':'<section class="panel"><p class="meta empty-note">這個連假還沒查過票價，按下方按鈕開始比較 8 個地點。</p></section>';return;}
+const deals=report.deals||[],pool=holidayOption?deals.filter(d=>optionKey(d)===holidayOption):deals,best=new Map();
+// deals 已依價格排序；每個地點第一次出現的就是它在這個篩選下最便宜的走法
+for(const d of pool)if(!best.has(d.destination))best.set(d.destination,d);
+const order=[...best.keys()].concat((report.destinations||[]).filter(c=>!best.has(c)));
+let html='<div class="result-head"><h2 class="section-title">'+(holidayOption?'這樣請假，可以去哪裡':'便宜地點排行')+'</h2><span class="tag">報價時間 '+stamp(report.generated_at)+'</span></div>';
+html+='<div class="deal-grid">'+order.map((code,i)=>dealCard(code,best.get(code),i,running)).join('')+'</div>';
 html+='<p class="status-note">台北桃園出發 · 1 位成人 · 經濟艙 · 直飛 · 兩張單程相加，不是來回套票；行李與票規需另外確認。已完成 '+report.completed_queries+' / '+report.requested_queries+' 次查詢。</p>';
 if(report.aborted_reason)html+='<p class="status-note">本輪提前停止：'+esc(report.aborted_reason)+'</p>';
-html+='</section>';
-if(deals.length>best.size)html+='<details class="panel"><summary>所有地點 × 請假走法（'+deals.length+' 組）</summary>'+table(head,deals.map(row))+'</details>';
+if(deals.length)html+='<details class="panel"><summary>所有地點 × 請假走法（'+deals.length+' 組）</summary>'+table(['地點','日期','每人兩張單程合計','去程','回程'],deals.map(d=>['<strong>'+esc(placeName(d.destination))+'</strong> <small>'+esc(d.destination)+'</small>',shortDate(d.depart)+' – '+shortDate(d.return)+'<small>共 '+d.total_days+' 天 · '+leaveText(d.leave_days)+'</small>','<strong class="price">'+money(d.price)+'</strong>',esc(airlineName(d.outbound.airline))+'<br><span class="time">'+esc(d.outbound.depart_time)+' → '+esc(d.outbound.arrive_time)+'</span>',esc(airlineName(d.inbound.airline))+'<br><span class="time">'+esc(d.inbound.depart_time)+' → '+esc(d.inbound.arrive_time)+'</span>']))+'</details>';
 box.innerHTML=html;
-box.querySelectorAll('[data-deal]').forEach(el=>el.onclick=()=>{const d=deals[Number(el.dataset.deal)];$('origin').value=report.origin;$('destination').value=d.destination;$('depart').value=d.depart;$('return-date').value=d.return;setMode('dates');$('search-form').requestSubmit();});
+box.querySelectorAll('[data-deal]').forEach(el=>el.onclick=()=>{const [code,depart,ret]=el.dataset.deal.split('|');$('origin').value=report.origin;$('destination').value=code;$('depart').value=depart;$('return-date').value=ret;setMode('dates');$('search-form').requestSubmit();$('search-form').scrollIntoView({block:'start'});});
 }
 
+// hero 右側的登機證：只講最近的那個連假，不跟著下方選到的連假變
+function renderTicket(report){
+const b=holidayBreaks[0];if(!b)return;
+const cheapest=report&&report.deals&&report.deals[0];
+$('hero-ticket').innerHTML='<p class="ticket-label">下一個連假</p><h2>'+esc(b.name)+'</h2><p class="ticket-dates">'+shortDate(b.start)+' – '+shortDate(b.end)+'</p><div class="ticket-row"><div><small>連休</small><strong>'+b.days+' 天</strong></div><div><small>倒數</small><strong>'+daysUntil(b.start)+' 天</strong></div><div><small>'+(cheapest?'最低 · '+esc(placeName(cheapest.destination)):'最低票價')+'</small><strong class="ticket-price">'+(cheapest?money(cheapest.price):holidayRunning?'查價中':'尚未查價')+'</strong></div></div>';
+$('hero-ticket').hidden=false;
+}
+
+function setDeals(report,running,b){holidayReport=report;holidayRunning=running;renderDeals();if(b===holidayBreaks[0])renderTicket(report);}
 function holidayBusy(on,line){$('holiday-progress').hidden=!on;$('refresh-deals').disabled=on;if(line)$('holiday-progress-line').textContent=line;}
 
 async function pollDeals(id,b){
 try{
 const j=await api('/api/jobs/'+encodeURIComponent(id));
 if(b!==holidayPick)return;
-const last=(j.logs||[]).at(-1);
-if(j.report)renderDeals(j.report,j.state==='running');
-if(j.state==='running'){holidayBusy(true,last||'正在連線查詢，請稍候…');setTimeout(()=>pollDeals(id,b),2000);return;}
-holidayBusy(false);if(j.error)holidayMessage(j.error);
-}catch(e){holidayBusy(false);holidayMessage(e.message);}
+const last=(j.logs||[]).at(-1),running=j.state==='running';
+if(j.report)setDeals(j.report,running,b);
+if(running){holidayBusy(true,last||'正在連線查詢，請稍候…');setTimeout(()=>pollDeals(id,b),2000);return;}
+setDeals(holidayReport,false,b);holidayBusy(false);$('refresh-deals').textContent='重新查價';if(j.error)holidayMessage(j.error);
+}catch(e){setDeals(holidayReport,false,b);holidayBusy(false);holidayMessage(e.message);}
 }
 
 async function startDeals(b,refresh){
 holidayMessage();
-try{const j=await post('/api/deals',{origin:HOLIDAY_ORIGIN,start:b.start,end:b.end,refresh});holidayBusy(true,'正在連線查詢，請稍候…');if(!$('deal-results').querySelector('table'))renderDeals(null,true);pollDeals(j.id,b);}
+try{const j=await post('/api/deals',{origin:HOLIDAY_ORIGIN,start:b.start,end:b.end,refresh});holidayBusy(true,'正在連線查詢，請稍候…');setDeals(holidayReport,true,b);pollDeals(j.id,b);}
 catch(e){holidayMessage(e.message);}
 }
 
 async function pickBreak(b,autoStart){
-holidayPick=b;holidayMessage();renderBreaks();renderOptions(b);holidayBusy(false);$('refresh-deals').hidden=false;
+holidayPick=b;holidayOption='';holidayMessage();renderBreaks();renderOptions(b);holidayBusy(false);$('refresh-deals').hidden=false;
 try{
 const q=new URLSearchParams({origin:HOLIDAY_ORIGIN,start:b.start,end:b.end}),r=await api('/api/deals?'+q);
 if(b!==holidayPick)return;
-renderDeals(r.report,!!r.job);
+setDeals(r.report,!!r.job,b);
 $('refresh-deals').textContent=r.report?'重新查價':'查這個連假的機票';
 if(r.job){holidayBusy(true);pollDeals(r.job,b);}
 // 只有一進首頁、最近的連假、而且從沒查過時才自動開查；其餘都等使用者按，避免每次開頁面都去打來源
@@ -74,10 +95,10 @@ $('refresh-deals').onclick=()=>{if(holidayPick)startDeals(holidayPick,true);};
 
 (async()=>{
 try{
-const h=await api('/api/holidays');holidayBreaks=h.breaks;
+const h=await api('/api/holidays');holidayBreaks=h.breaks;holidayToday=h.today;
 const src=h.sources.map(s=>s.year+' 年（'+stamp(s.fetched_at)+' 下載'+(s.stale?'，本次更新失敗、沿用舊檔':'')+'）').join('、');
 $('holiday-source').innerHTML='連假依據：<a href="'+esc(h.source_page)+'" target="_blank" rel="noopener">'+esc(h.source_name)+'</a>'+(src?' · '+esc(src):'')+'<br>'+esc(h.caveat);
 if(!h.breaks.length){holidayMessage(h.errors.join('；')||'辦公日曆表上目前沒有即將到來的連假。');return;}
-pickBreak(h.breaks[0],true);
+renderTicket(null);pickBreak(h.breaks[0],true);
 }catch(e){holidayMessage(e.message);}
 })();

diff --git a/fare_watch/web/index.html b/fare_watch/web/index.html
@@ -2,11 +2,16 @@
 <html lang="zh-Hant">
 <head><meta charset="utf-8"><meta name="viewport" content="width=device-width,initial-scale=1"><meta name="request-token" content="__TOKEN__"><meta name="description" content="查詢直飛機票、比較便宜日期，追蹤同一航班每天的票價變化。"><title>航程筆記 · 機票查詢與追蹤</title><link rel="stylesheet" href="/style.css"><script src="/app.js" defer></script><script src="/holiday.js" defer></script></head>
 <body>
-<header class="top"><a class="brand" href="/" aria-label="航程筆記首頁"><span class="brand-icon">↗</span> 航程筆記 <small>FARE NOTES</small></a><span class="local"><i></i> 本機使用 · 資料存在這台 Mac</span></header>
-<main>
-<section class="intro"><p class="eyebrow">下一段旅程，從好價格開始</p><h1>下一個連假，<span>飛哪裡最划算？</span></h1><p>依人事行政總處的辦公日曆找出最近的連假，排好請假走法，再比較各地直飛票價。</p></section>
+<a class="skip" href="#content">跳到主要內容</a>
+<header class="top"><a class="brand" href="/" aria-label="航程筆記首頁"><span class="brand-icon" aria-hidden="true"><svg viewBox="0 0 24 24" width="20" height="20"><path fill="currentColor" d="M21.4 2.6a1.5 1.5 0 0 0-1.6-.3L3 9.2a1 1 0 0 0 0 1.9l6.3 2.2 2.2 6.3a1 1 0 0 0 1.9.1l6.9-16.8a1.5 1.5 0 0 0-.3-1.6l1.4 1.3z"/></svg></span> 航程筆記 <small>FARE NOTES</small></a><span class="local"><i></i> 本機使用 · 資料存在這台 Mac</span></header>
+<section class="hero" aria-labelledby="hero-title">
+<svg class="hero-art" viewBox="0 0 1200 420" preserveAspectRatio="xMidYMid slice" aria-hidden="true" focusable="false"><g fill="#fff"><ellipse cx="170" cy="330" rx="150" ry="26" opacity=".16"/><ellipse cx="290" cy="352" rx="190" ry="30" opacity=".12"/><ellipse cx="980" cy="120" rx="130" ry="20" opacity=".14"/><ellipse cx="1090" cy="140" rx="110" ry="16" opacity=".1"/><ellipse cx="640" cy="388" rx="260" ry="28" opacity=".1"/></g><g class="hero-route"><path d="M440 352 C 520 240, 600 160, 690 116" fill="none" stroke="#fff" stroke-width="2.5" stroke-dasharray="2 12" stroke-linecap="round" opacity=".6"/><g transform="translate(722 100) rotate(-24)"><path fill="#fff" d="M-26 0 L10 -5 L30 -22 L37 -21 L26 -2 L40 1 L46 -6 L51 -5 L47 5 L51 15 L46 16 L40 9 L26 12 L37 31 L30 32 L10 15 L-26 10 Q-32 5 -26 0z"/></g></g></svg>
+<div class="hero-inner"><div class="intro"><p class="eyebrow">連假 · 直飛 · 好價格</p><h1 id="hero-title">下一個連假，<span>飛哪裡最划算？</span></h1><p>依人事行政總處的辦公日曆找出最近的連假，排好請假走法，再比較各地直飛票價。</p></div>
+<aside id="hero-ticket" class="ticket" aria-label="下一個連假" hidden></aside></div>
+</section>
+<main id="content">
 <nav class="tabs" aria-label="功能"><button class="tab active" data-mode="holiday" aria-pressed="true">連假便宜機票</button><button class="tab" data-mode="dates" aria-pressed="false">指定日期查價</button><button class="tab" data-mode="scan" aria-pressed="false">找便宜日期</button><button class="tab" data-mode="history" aria-pressed="false">票價歷史</button></nav>
-<section id="holiday"><div id="break-list" class="break-list" aria-label="即將到來的連假"></div><div id="holiday-message" role="alert" hidden></div><section id="break-options" class="panel"></section><section id="holiday-progress" class="progress-card" aria-live="polite" hidden><div class="progress-top"><span class="spinner"></span><strong>正在比較各地票價</strong></div><p id="holiday-progress-line">連線查詢中，請稍候…</p><small>8 個地點約需數分鐘，查完一個地點就會先顯示。</small></section><div id="deal-results" aria-live="polite"></div><div class="holiday-actions"><button type="button" class="primary" id="refresh-deals" hidden>重新查價</button></div><p class="meta" id="holiday-source"></p></section>
+<section id="holiday"><h2 class="section-title">挑一個連假</h2><div id="break-list" class="break-list" role="group" aria-label="即將到來的連假"></div><div id="holiday-message" role="alert" hidden></div><section id="break-options" class="panel"></section><section id="holiday-progress" class="progress-card" aria-live="polite" hidden><div class="progress-top"><span class="spinner"></span><strong>正在比較各地票價</strong></div><p id="holiday-progress-line">連線查詢中，請稍候…</p><small>8 個地點約需數分鐘，查完一個地點就會先顯示。</small></section><div id="deal-results"></div><div class="holiday-actions"><button type="button" class="primary" id="refresh-deals" hidden>重新查價</button></div><p class="meta" id="holiday-source"></p></section>
 <section id="watches" class="panel watches" hidden><h3>我的票價追蹤</h3><p class="meta">儲存航線與日期後，可一鍵重新查價或查看歷史。尚未啟用每日自動查詢。</p><div id="watch-list"></div></section>
 <section class="search-card" hidden>
 <form id="search-form">

diff --git a/fare_watch/web/app.js b/fare_watch/web/app.js
@@ -9,7 +9,8 @@ const airlineNames = {
   'air seoul':'首爾航空', 'air premia':'普萊米婭航空', 'aero k':'可依航空',
   'japan airlines':'日本航空', 'all nippon airways':'全日本空輸', 'ana':'全日本空輸',
   'peach':'樂桃航空', 'peach aviation':'樂桃航空', 'jetstar japan':'捷星日本航空',
-  'cathay pacific':'國泰航空', 'hong kong airlines':'香港航空', 'hk express':'香港快運',
+  'cathay pacific':'國泰航空', 'hong kong airlines':'香港航空', 'hk express':'香港快運', 'hong kong express':'香港快運',
+  'thai vietjet air':'泰越捷航空', 'thai lion air':'泰國獅子航空', 'jetstar':'捷星航空', 'airasia x':'全亞洲航空',
   'singapore airlines':'新加坡航空', 'scoot':'酷航', 'thai airways':'泰國航空',
   'airasia':'亞洲航空', 'thai airasia':'泰國亞洲航空', 'vietnam airlines':'越南航空',
   'vietjet air':'越捷航空', 'philippine airlines':'菲律賓航空', 'cebu pacific':'宿霧太平洋航空',
